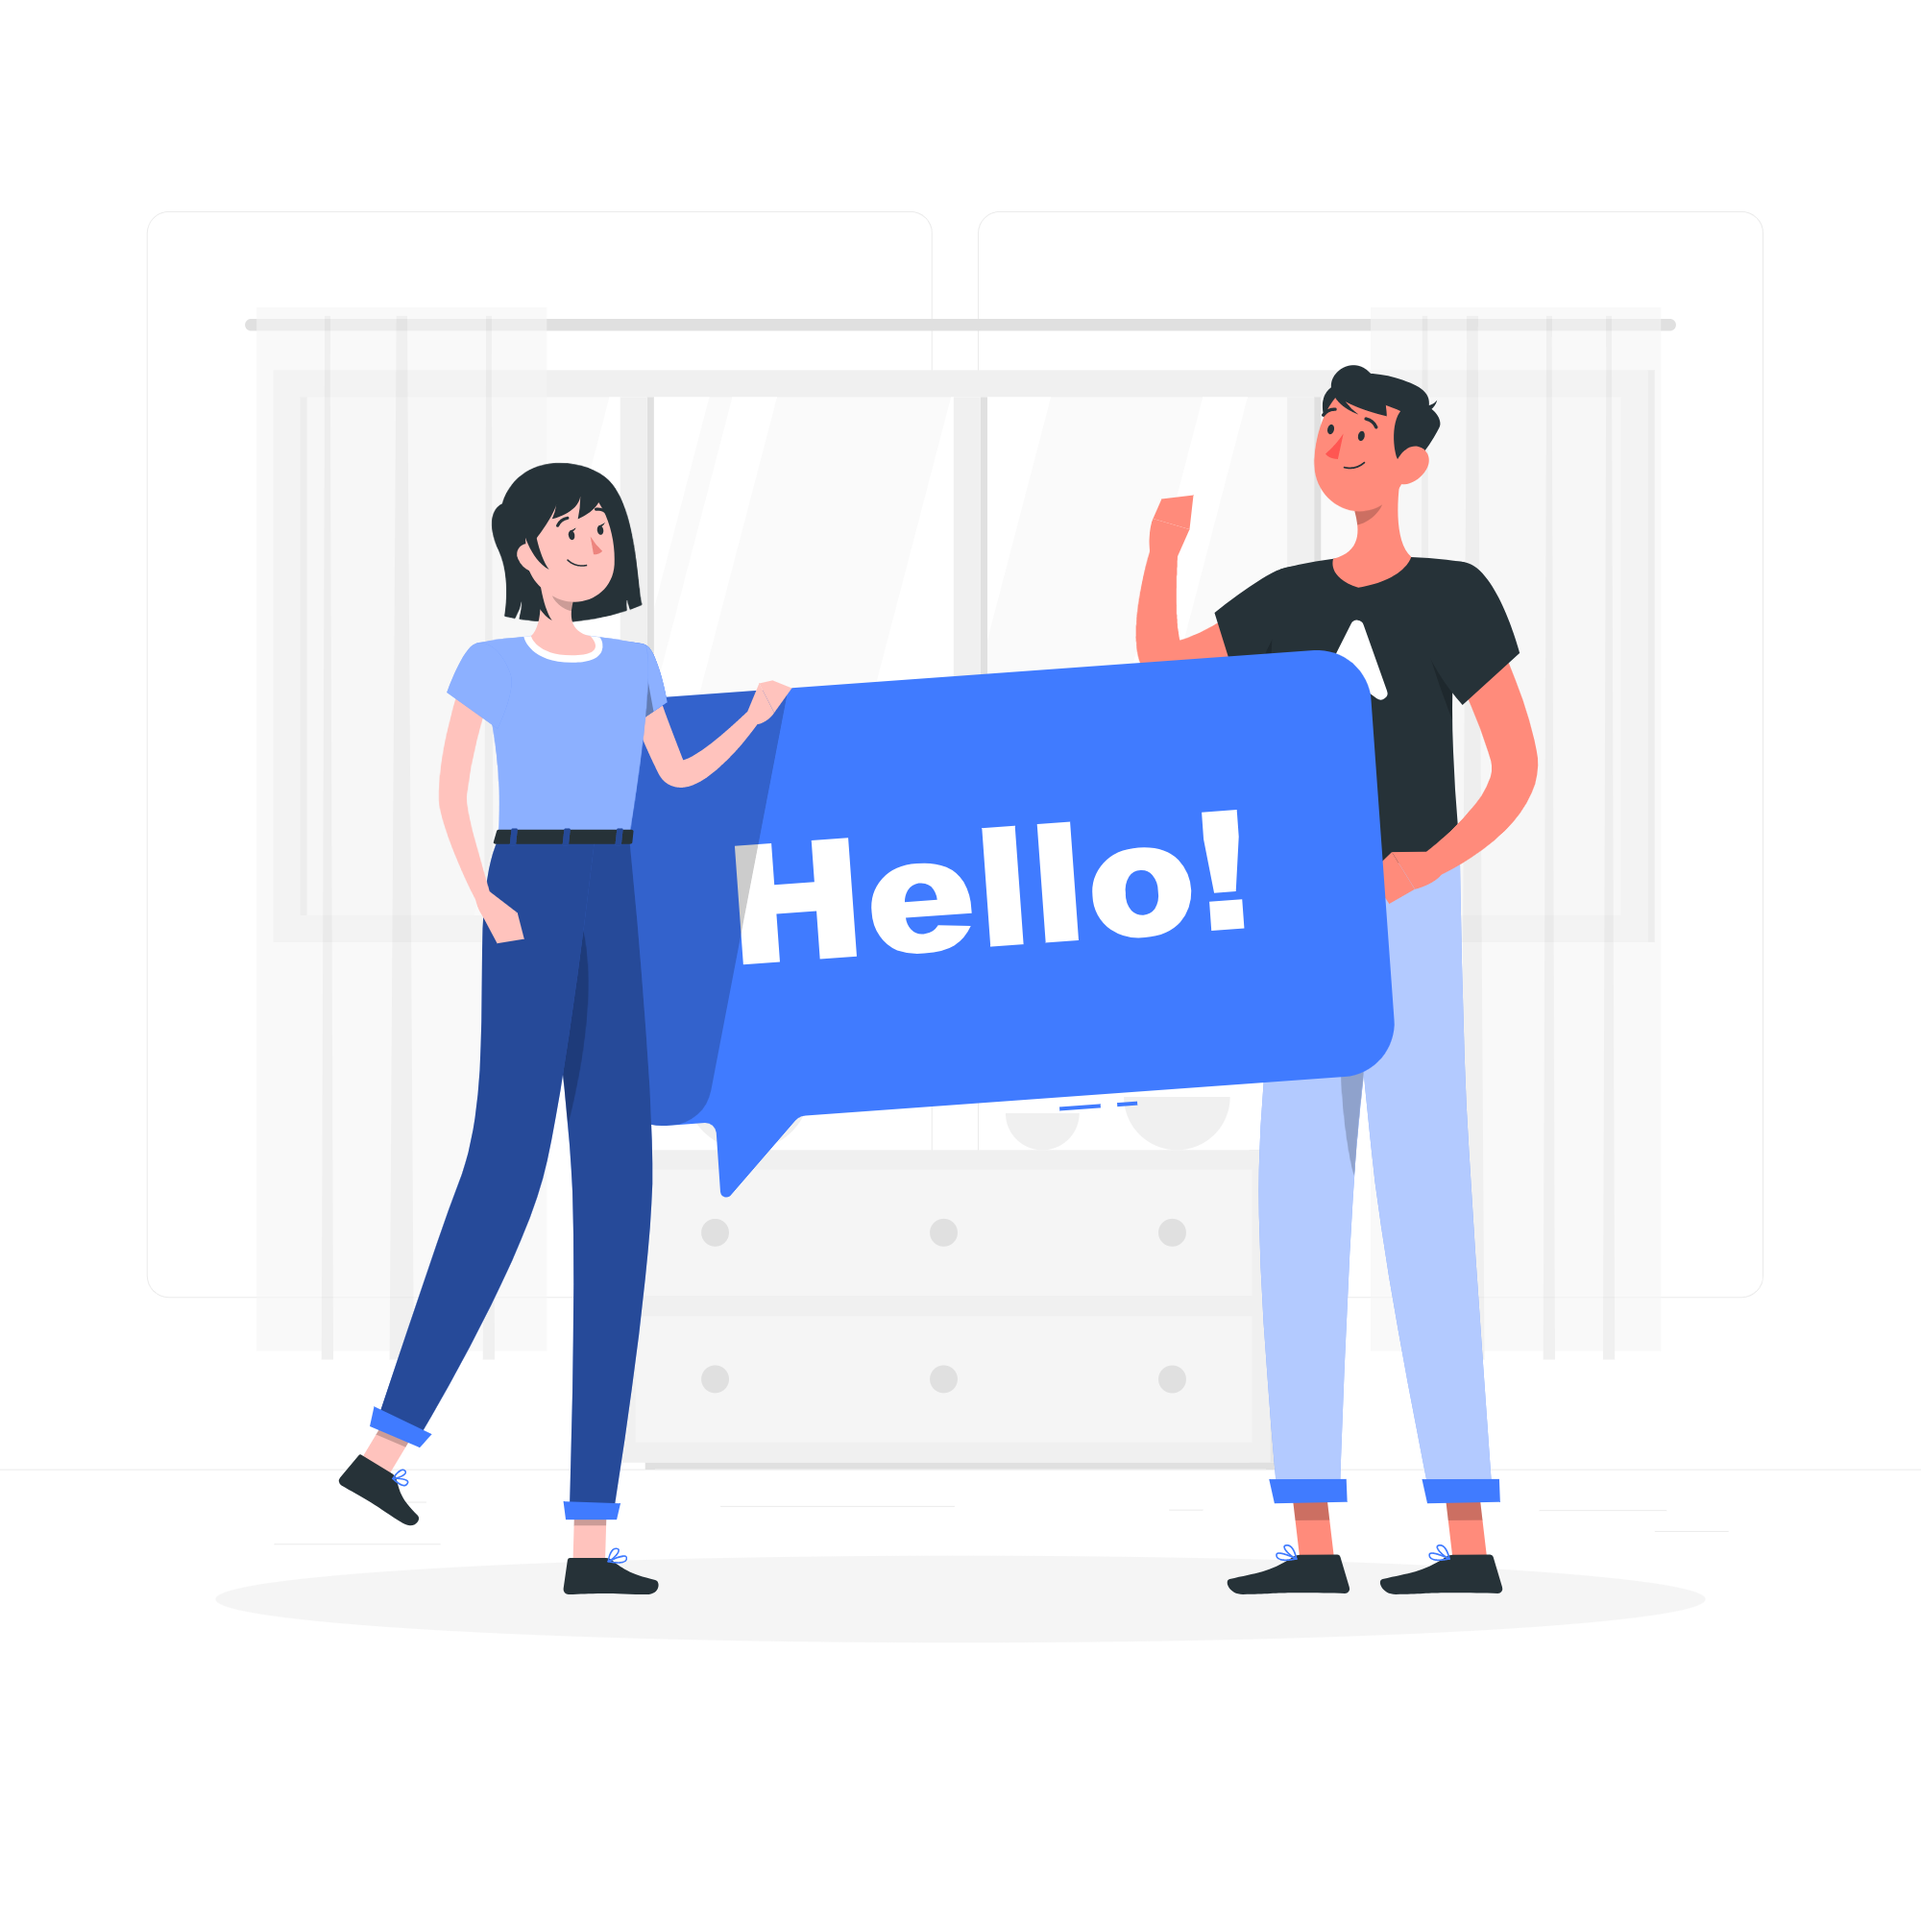
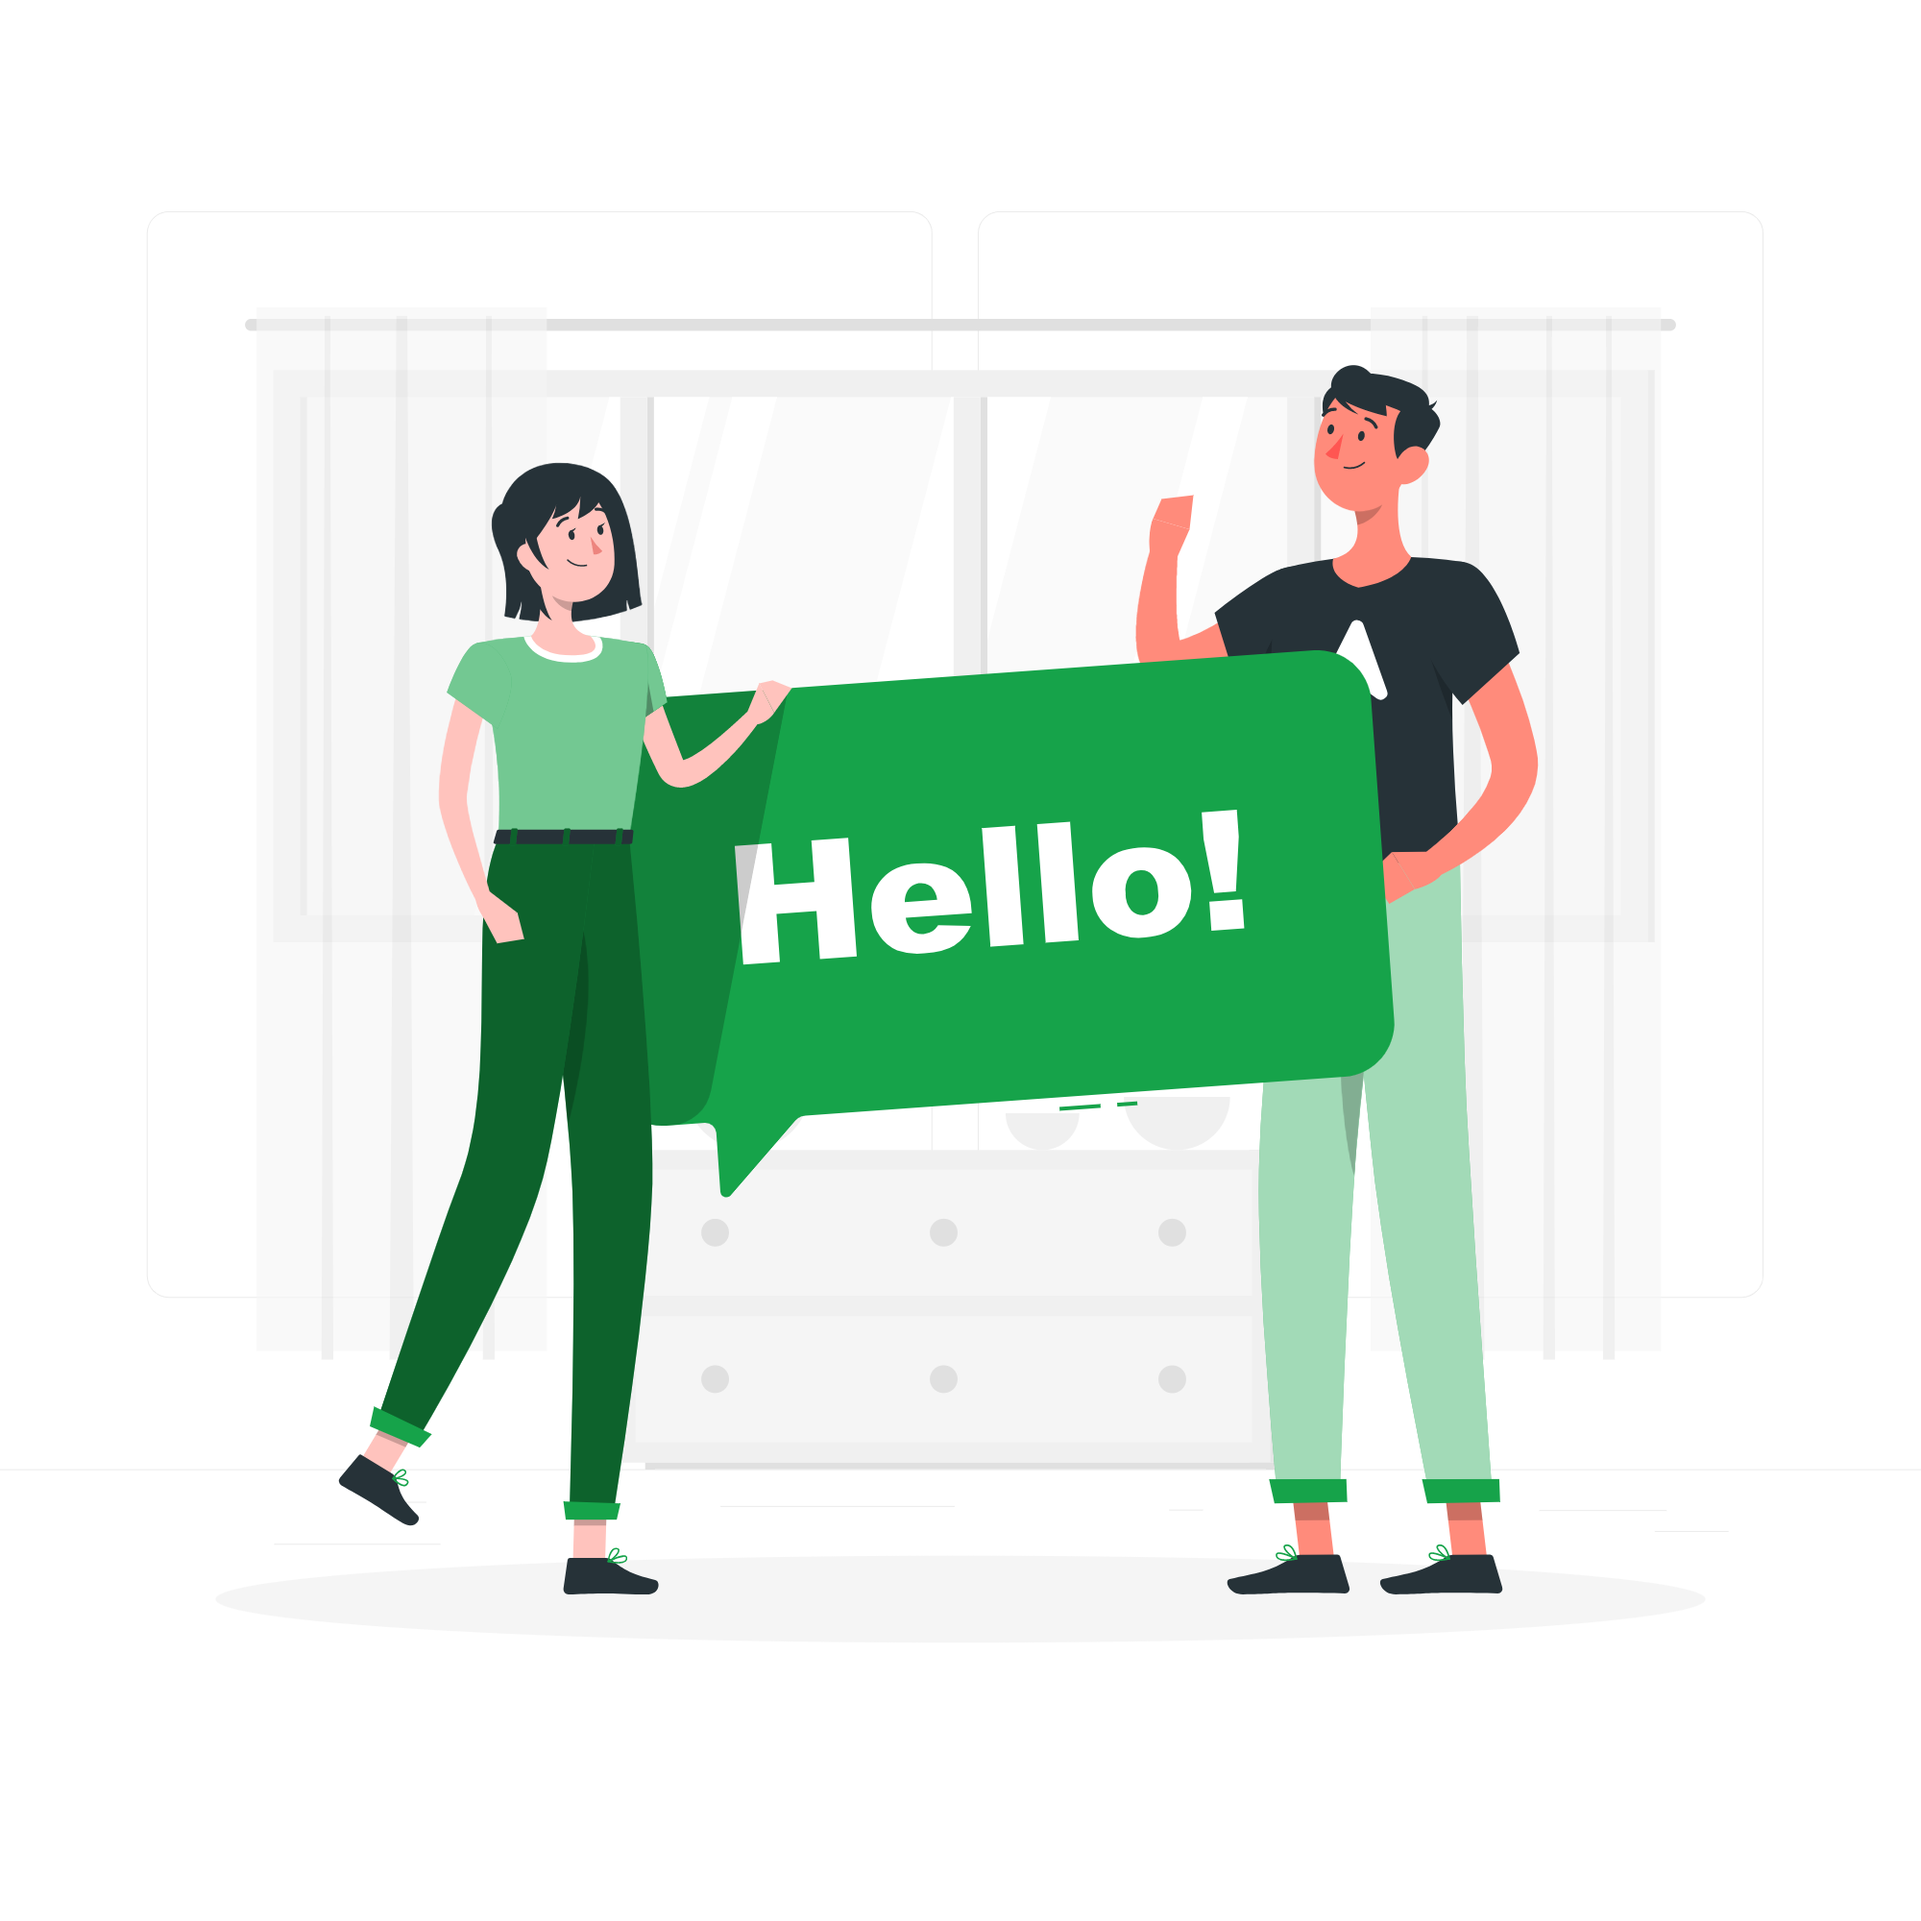
..

Changed region(s): [[0.186, 0.31, 0.775, 0.806]]

diff --git a/src/components/Dashboard.jsx b/src/components/Dashboard.jsx
@@ -28,8 +28,8 @@ const Dashboard = () => {
         </div> */}
 
       <Navbar />
-      <div class="z-[50] h-36 bg-transparent rounded-b-[30%] px-7">
-        <Splide className="my-3 p-3 bg-white" aria-label="myimges">
+      <div class="h-36 bg-transparent rounded-b-[30%] px-7">
+        <Splide className="mt-16 p-3 bg-white" aria-label="myimges">
           <SplideSlide>
             <img src={RecycleBin} alt="Img1" />
           </SplideSlide>
@@ -38,10 +38,10 @@ const Dashboard = () => {
           </SplideSlide>
         </Splide>
       </div>
-      <div class="mt-20 md:mx-32 mx-5 py-5">
+      <div class="mt-10 md:mx-32 mx-5 py-5">
         <div class="grid grid-cols-2 gap-x-4 gap-y-6">
           <a href="./wasteinfo">
-            <div className="bg-[#407BFF] rounded-lg text-white p-2 space-y-5 shadow-xl">
+            <div className="bg-[#16a34a] rounded-lg text-white p-2 space-y-5 shadow-xl">
               <div class="">
                 <svg
                   width="35"

diff --git a/src/components/Navbar.jsx b/src/components/Navbar.jsx
@@ -13,7 +13,7 @@ const Navbar = () => {
   ];
   return (
     <nav
-      className={`w-full left-0 top-0 z-[999] bg-gray-900  text-white}`}>
+      className={`w-full left-0 top-0 z-[999] absolute bg-gray-100 shadow-lg text-white}`}>
       <div className="flex items-center justify-between">
         <div onClick={() => setOpen(!open)} className={`z-[999] ${open ? "text-gray-900" : "text-gray-100"} cursor-pointer text-3xl  m-5`}>
           <svg
